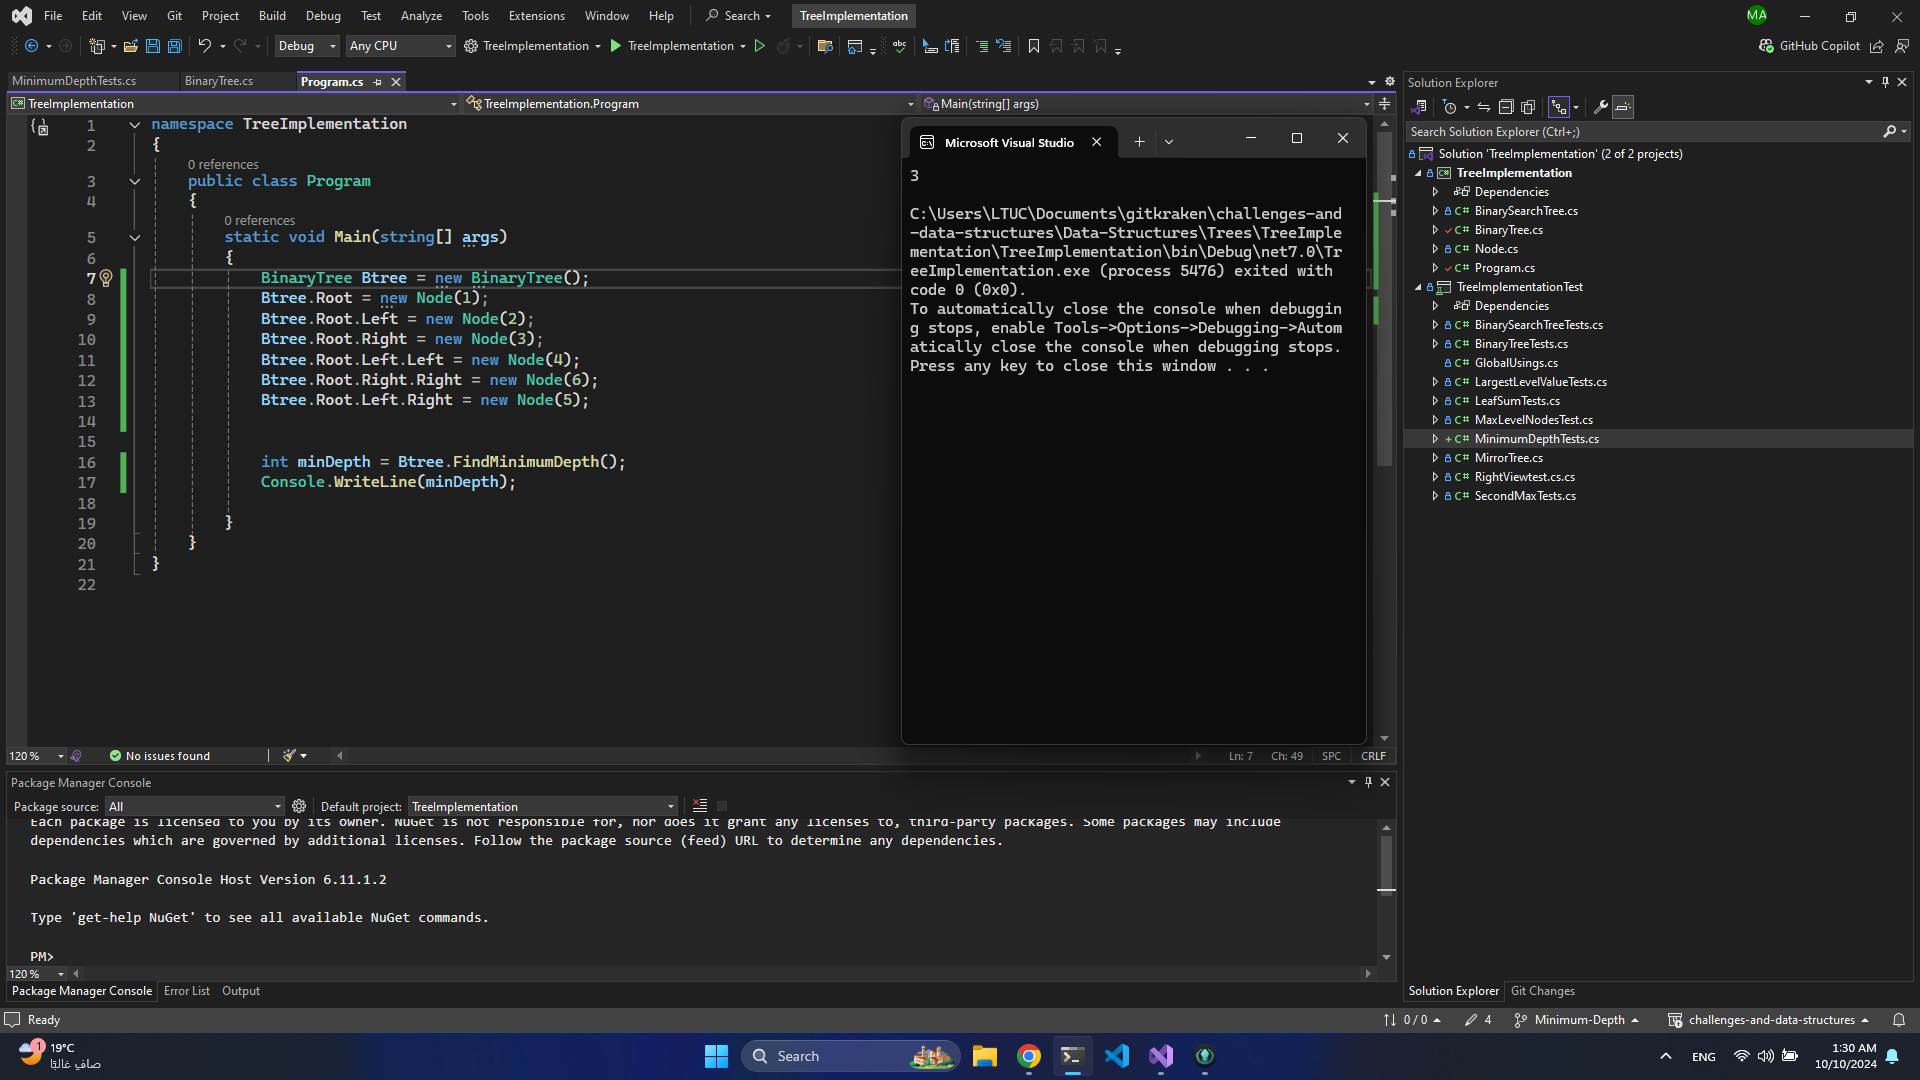
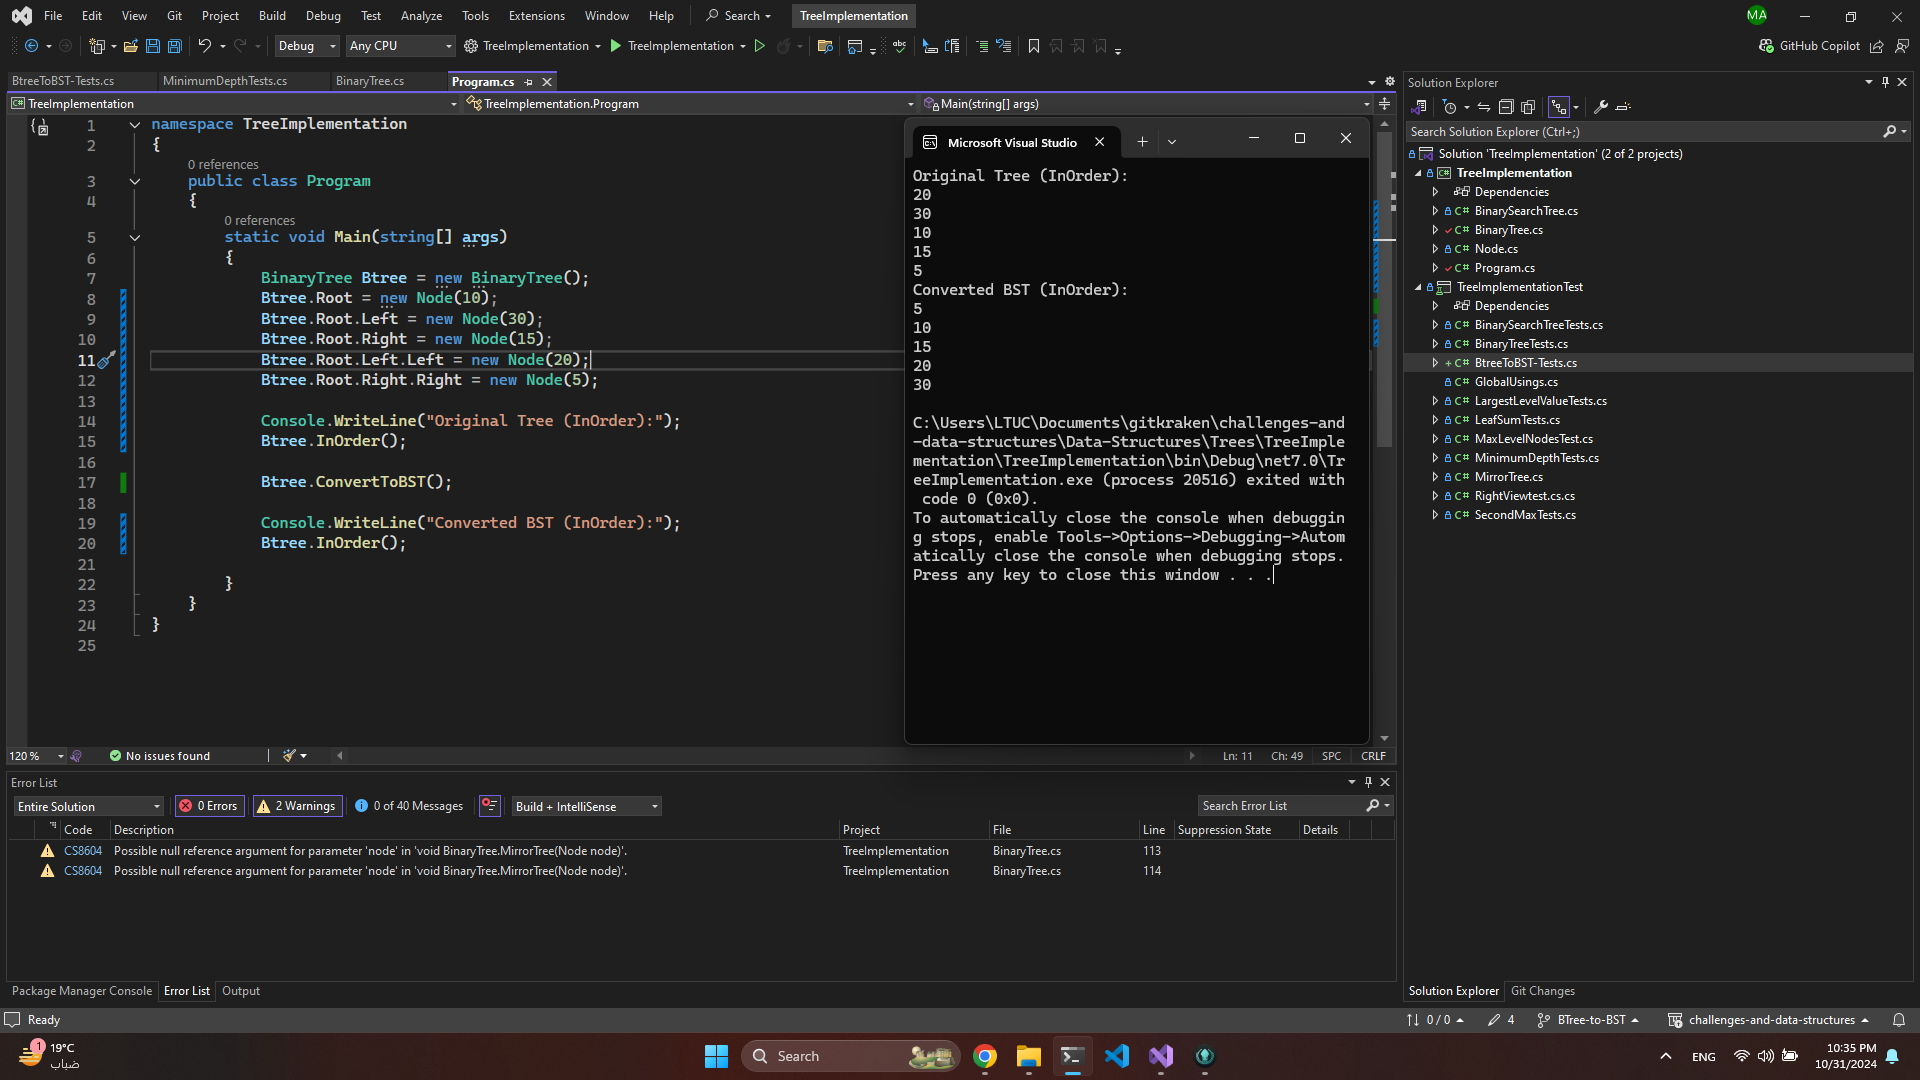
Binary Tree to Binary Search Tree

diff --git a/Data-Structures/Trees/TreeImplementation/TreeImplementationTest/BtreeToBST-Tests.cs b/Data-Structures/Trees/TreeImplementation/TreeImplementationTest/BtreeToBST-Tests.cs
@@ -1,0 +1,86 @@
+using System;
+using System.Collections.Generic;
+using System.Linq;
+using System.Text;
+using System.Threading.Tasks;
+using TreeImplementation;
+using Xunit;
+
+namespace TreeImplementationTest
+{
+    public class BtreeToBST_Tests
+    {
+        private string CaptureConsoleOutput(Action action)
+        {
+            var originalConsoleOut = Console.Out;
+            try
+            {
+                using (var sw = new StringWriter())
+                {
+                    Console.SetOut(sw);
+                    action();
+                    return sw.ToString().Trim();
+                }
+            }
+            finally
+            {
+                Console.SetOut(originalConsoleOut);
+            }
+        }
+
+        [Fact]
+        public void ConvertToBST_Test()
+        {
+            // Arrange
+            BinaryTree Btree = new BinaryTree();
+            Btree.Root = new Node(10);
+            Btree.Root.Left = new Node(30);
+            Btree.Root.Right = new Node(15);
+            Btree.Root.Left.Left = new Node(20);
+            Btree.Root.Right.Right = new Node(5);
+
+            // Act
+            Btree.ConvertToBST();
+            string output = CaptureConsoleOutput(() => Btree.InOrder());
+
+            // Assert
+            Assert.Equal("5\r\n10\r\n15\r\n20\r\n30", output);
+        }
+
+        [Fact]
+        public void ConvertToBST_OnlyLeftNodes_Test()
+        {
+            // Arrange
+            BinaryTree Btree = new BinaryTree();
+            Btree.Root = new Node(10);
+            Btree.Root.Left = new Node(8);
+            Btree.Root.Left.Left = new Node(6);
+            Btree.Root.Left.Left.Left = new Node(4);
+
+            // Act
+            Btree.ConvertToBST();
+            string output = CaptureConsoleOutput(() => Btree.InOrder());
+
+            // Assert
+            Assert.Equal("4\r\n6\r\n8\r\n10", output);
+        }
+
+        [Fact]
+        public void ConvertToBST_OnlyRightNodes_Test()
+        {
+            // Arrange
+            BinaryTree Btree = new BinaryTree();
+            Btree.Root = new Node(10);
+            Btree.Root.Right = new Node(12);
+            Btree.Root.Right.Right = new Node(14);
+            Btree.Root.Right.Right.Right = new Node(16);
+
+            // Act
+            Btree.ConvertToBST();
+            string output = CaptureConsoleOutput(() => Btree.InOrder());
+
+            // Assert
+            Assert.Equal("10\r\n12\r\n14\r\n16", output);
+        }
+    }
+}

diff --git a/Data-Structures/Trees/TreeImplementation/TreeImplementation/BinaryTree.cs b/Data-Structures/Trees/TreeImplementation/TreeImplementation/BinaryTree.cs
@@ -324,6 +324,33 @@ namespace TreeImplementation
 
             return 0;
         }
+        public void ConvertToBST()
+        {
+            try
+            {
+                if (Root == null)
+                    throw new InvalidOperationException("Tree is empty.");
+
+                List<int> values = new List<int>();
+                InOrderTraversal(Root, values);
+                values.Sort();
+
+                int index = 0;
+                ConvertToBST(Root, values, ref index);
+            }
+            catch (Exception ex)
+            {
+                Console.WriteLine($"An error occurred: {ex.Message}");
+            }
+        }
+        private void ConvertToBST(Node? node, List<int> values, ref int index)
+        {
+            if (node == null) return;
+
+            ConvertToBST(node.Left, values, ref index);
+            node.Value = values[index++];
+            ConvertToBST(node.Right, values, ref index);
+        }
 
     }
 }

diff --git a/Data-Structures/Trees/TreeImplementation/TreeImplementation/Program.cs b/Data-Structures/Trees/TreeImplementation/TreeImplementation/Program.cs
@@ -5,16 +5,19 @@
         static void Main(string[] args)
         {
             BinaryTree Btree = new BinaryTree();
-            Btree.Root = new Node(1);
-            Btree.Root.Left = new Node(2);
-            Btree.Root.Right = new Node(3);
-            Btree.Root.Left.Left = new Node(4);
-            Btree.Root.Right.Right = new Node(6);
-            Btree.Root.Left.Right = new Node(5);
+            Btree.Root = new Node(10);
+            Btree.Root.Left = new Node(30);
+            Btree.Root.Right = new Node(15);
+            Btree.Root.Left.Left = new Node(20);
+            Btree.Root.Right.Right = new Node(5);
 
+            Console.WriteLine("Original Tree (InOrder):");
+            Btree.InOrder();
 
-            int minDepth = Btree.FindMinimumDepth();
-            Console.WriteLine(minDepth);
+            Btree.ConvertToBST();
+
+            Console.WriteLine("Converted BST (InOrder):");
+            Btree.InOrder();
 
         }
     }

diff --git a/README.md b/README.md
@@ -93,3 +93,7 @@
 ### Binary Tree - Minimum Depth
 
 ![Minimum Depth](Data-Structures/Trees/Image9.jpg)
+
+### Binary Tree to Binary Search Tree
+
+![Binary Tree to Binary Search Tree](Data-Structures/Trees/Image10.png)
